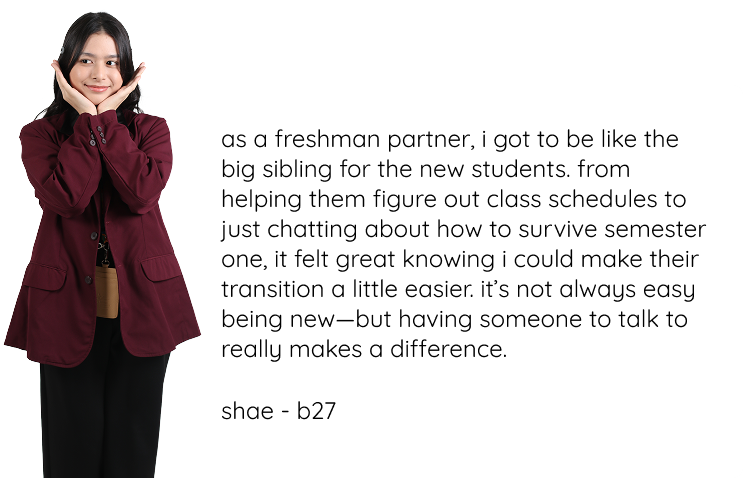
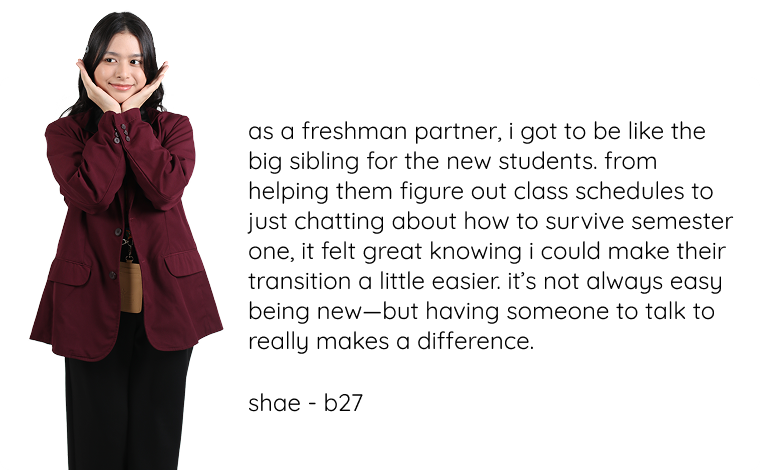
fyp-page-testi

Changed region(s): [[0.0, 0.0, 0.9596, 1.0], [0.2786, 0.834, 0.4953, 0.8936]]

diff --git a/FYP-web/Homepage/style.css b/FYP-web/Homepage/style.css
@@ -158,6 +158,31 @@ body {
     width: 400px;
 }
 
+.first-card div button {
+    margin-top: 15px;
+    background: none;
+    /* background-color: #fefefe; */
+    border: 1px solid white;
+    padding: 10px 20px;
+    border-radius: 20px;
+    transition: 0.45s;
+    color: white;
+    width: 110px;
+}
+
+.first-card div button:hover {
+    margin-top: 15px;
+    /* background: none; */
+    background-color: #fefefe;
+    border: 1px solid white;
+    padding: 10px 20px;
+    border-radius: 20px;
+    transition: 0.45s;
+    color: #59282b;
+    width: 110px;
+    cursor: pointer;
+}
+
 .testimonial {
     background-color: #59282b;
     padding-top: 50px;
@@ -168,6 +193,10 @@ body {
     justify-content: center;
     color: white;
     border-top: 1px solid white;
+}
+
+.testimonial p {
+    margin-top: 10px;
 }
 
 .testimonial .card-testi{
@@ -410,6 +439,11 @@ footer a img {
     }
 
     .testimonial h1{
+        margin-bottom: 0px;
+    }
+
+    .testimonial p {
+        margin-top: 10px;
         margin-bottom: 25px;
     }
     
@@ -501,6 +535,11 @@ footer a img {
     }
 
     .testimonial h1{
+        margin-bottom: 0px;
+    }
+
+    .testimonial p {
+        margin-top: 10px;
         margin-bottom: 25px;
     }
     
@@ -557,7 +596,12 @@ footer a img {
     }
 
     .testimonial h1{
-        margin-bottom: 25px;
+        margin-bottom: 0px;
+    }
+
+    .testimonial p {
+        margin-top: 10px;
+        margin-bottom: 5px;
     }
     
     .testimonial .card-testi{
@@ -571,6 +615,10 @@ footer a img {
     
     .testimonial .card-testi img {
         height: 170px;
+    }
+
+    body > div.testimonial > div > img:nth-child(1) {
+        margin-top: 25px;
     }
 
     footer {

diff --git a/FYP-web/Homepage/fyp.html b/FYP-web/Homepage/fyp.html
@@ -55,14 +55,16 @@
           settle in. it's not just orientation—it's the start of something big.
         </p>
         <p>welcome to binus, your story starts here.</p>
+        <button id="exploreButton">explore!</button>
       </div>
     </div>
 
-    <div class="testimonial">
-      <h1>testimonial</h1>
+    <div class="testimonial" id="content-section">
+      <h1>insight</h1>
+      <p>what ex f.chaperone says?</p>
       <div class="card-testi">
-        <img src="../../assets/shae-testi.png" alt="">
-        <img src="../../assets/teo-testi.png" alt="">
+        <img src="../../assets/shae-testi.png" alt="" />
+        <img src="../../assets/teo-testi.png" alt="" />
       </div>
     </div>
 
@@ -71,7 +73,7 @@
         <h1>want to know</h1>
         <h1>more about fyp?</h1>
       </div>
-      
+
       <a href="./faq.html">click here!</a>
     </div>
 
@@ -84,5 +86,13 @@
     </footer>
 
     <script src="./script.js"></script>
+    <script>
+      document
+        .getElementById("exploreButton")
+        .addEventListener("click", function () {
+          const contentSection = document.getElementById("content-section");
+          contentSection.scrollIntoView({ behavior: "smooth" });
+        });
+    </script>
   </body>
 </html>

diff --git a/FYP-web/Homepage/script.js b/FYP-web/Homepage/script.js
@@ -15,6 +15,8 @@ if(close) {
     })
 }
 
+
+
 // faq
 const faqQuestions = document.querySelectorAll('.faq-question');
         
@@ -100,3 +102,10 @@ document.addEventListener("DOMContentLoaded", () => {
   faqItems.forEach((item, i) => {
     observer.observe(item);
   });
+
+
+// fyp
+document.getElementById('exploreButton').addEventListener('click', function() {
+  const contentSection = document.getElementById('content-section');
+  contentSection.scrollIntoView({ behavior: 'smooth' });
+});
